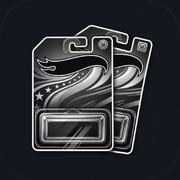
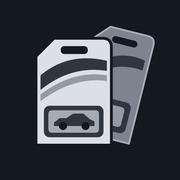
Add files via upload

diff --git a/sw.js b/sw.js
@@ -1,5 +1,5 @@
 // Copyright © 2026 noelgato-dll. All rights reserved.
-const CACHE='diecast-archive-shell-v0407-stable-icon2';
+const CACHE='diecast-archive-shell-v0407-stable-icon3';
 const FILES=['./index.html','./style.css','./activation.js','./script.enc.0407stable.json','./manifest.webmanifest','./icons/icon-180.png','./icons/icon-192.png','./icons/icon-512.png'];
 self.addEventListener('install', event => {
   // Cache all essential assets atomically. Do not activate an incomplete build.
